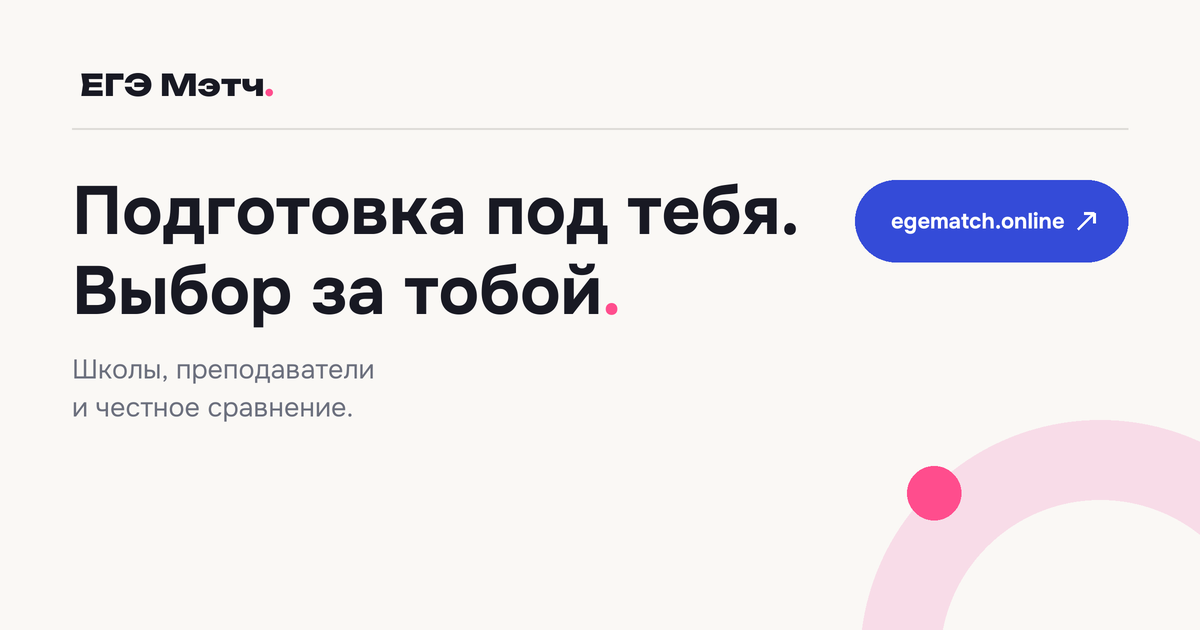
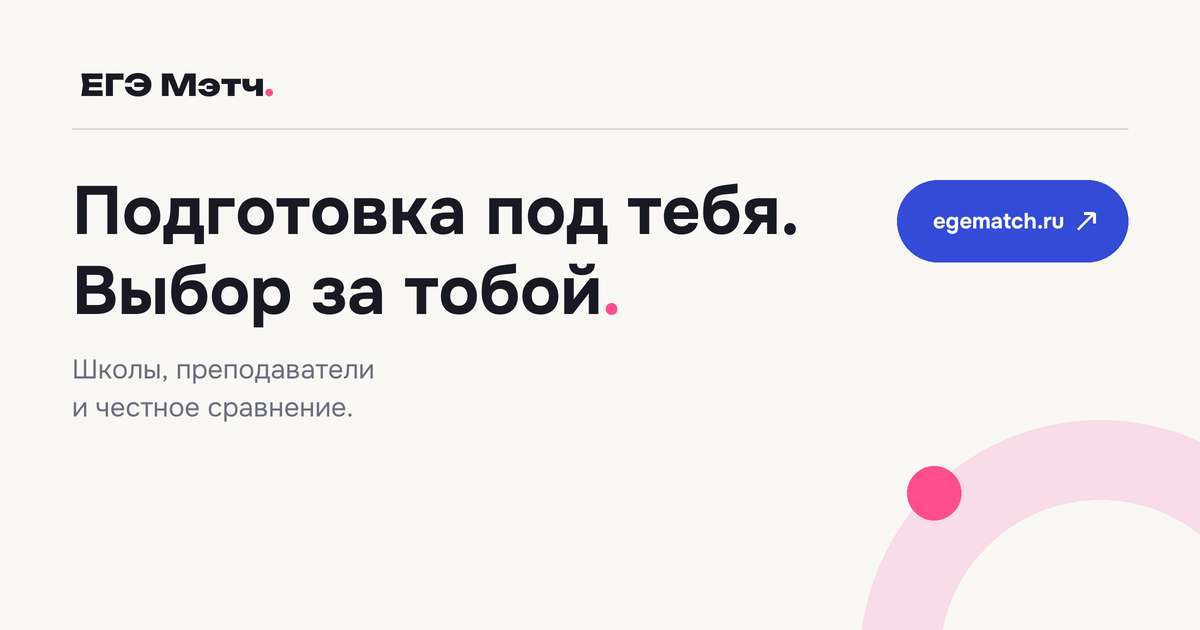
Make egematch.ru the primary domain
Canonicals, og tags, JSON-LD, robots and sitemap now point to
https://egematch.ru; the share image shows the new address; the consent
decline message mentions the new site.

Changed region(s): [[0.7092, 0.2714, 0.8942, 0.4222]]

diff --git a/web/index.html b/web/index.html
@@ -4,11 +4,11 @@
   <meta charset="utf-8"><meta name="viewport" content="width=device-width, initial-scale=1">
   <meta name="theme-color" content="#FAF8F5">
   <meta name="description" content="Выбирай подготовку к ЕГЭ: сравнивай онлайн-школы и преподавателей по предметам, цене и формату обучения.">
-  <link rel="canonical" href="https://egematch.online/">
+  <link rel="canonical" href="https://egematch.ru/">
   <meta property="og:type" content="website"><meta property="og:site_name" content="ЕГЭ Мэтч">
   <meta property="og:title" content="ЕГЭ Мэтч — найди свою подготовку"><meta property="og:description" content="Сравнивай онлайн-школы и преподавателей по оценкам, цене и формату обучения.">
-  <meta property="og:url" content="https://egematch.online/"><meta property="og:image" content="https://egematch.online/assets/og-cover.png?v=2"><meta property="og:image:width" content="1200"><meta property="og:image:height" content="630">
-  <meta name="twitter:card" content="summary_large_image"><meta name="twitter:title" content="ЕГЭ Мэтч — найди свою подготовку"><meta name="twitter:description" content="Сравнивай онлайн-школы и преподавателей по оценкам, цене и формату обучения."><meta name="twitter:image" content="https://egematch.online/assets/og-cover.png?v=2">
+  <meta property="og:url" content="https://egematch.ru/"><meta property="og:image" content="https://egematch.ru/assets/og-cover.png?v=3"><meta property="og:image:width" content="1200"><meta property="og:image:height" content="630">
+  <meta name="twitter:card" content="summary_large_image"><meta name="twitter:title" content="ЕГЭ Мэтч — найди свою подготовку"><meta name="twitter:description" content="Сравнивай онлайн-школы и преподавателей по оценкам, цене и формату обучения."><meta name="twitter:image" content="https://egematch.ru/assets/og-cover.png?v=3">
   <title>ЕГЭ Мэтч — найди свою подготовку</title>
   <link rel="icon" href="assets/egeshka-logo-icon.svg" type="image/svg+xml">
   <link rel="manifest" href="site.webmanifest">
@@ -17,8 +17,8 @@
   <link rel="stylesheet" href="refinements.css?v=35">
   <link rel="stylesheet" href="typography.css?v=31">
   <link rel="stylesheet" href="composition.css?v=76">
-  <script type="application/ld+json">{"@context":"https://schema.org","@type":"Organization","name":"ЕГЭ Мэтч","url":"https://egematch.online/","logo":"https://egematch.online/assets/egeshka-logo-icon.svg","sameAs":["https://t.me/EgeMatch_blog"]}</script>
-  <script type="application/ld+json">{"@context":"https://schema.org","@type":"WebSite","name":"ЕГЭ Мэтч","url":"https://egematch.online/","inLanguage":"ru","description":"Сравнение онлайн-школ и преподавателей для подготовки к ЕГЭ."}</script>
+  <script type="application/ld+json">{"@context":"https://schema.org","@type":"Organization","name":"ЕГЭ Мэтч","url":"https://egematch.ru/","logo":"https://egematch.ru/assets/egeshka-logo-icon.svg","sameAs":["https://t.me/EgeMatch_blog"]}</script>
+  <script type="application/ld+json">{"@context":"https://schema.org","@type":"WebSite","name":"ЕГЭ Мэтч","url":"https://egematch.ru/","inLanguage":"ru","description":"Сравнение онлайн-школ и преподавателей для подготовки к ЕГЭ."}</script>
 </head>
 <body>
 <header class="header wrap"><a class="logo" href="#" aria-label="ЕГЭ Мэтч, главная">ЕГЭ Мэтч<span>.</span></a><nav aria-label="Главная навигация"><a href="/ratings">Рейтинг школ</a><a href="#compare">Сравнение</a><a href="#reviews">Отзывы</a></nav><a class="header-action" href="#compare">Сравнить <span>↗</span></a></header>

diff --git a/web/methodology.html b/web/methodology.html
@@ -4,16 +4,16 @@
   <meta charset="utf-8"><meta name="viewport" content="width=device-width, initial-scale=1">
   <meta name="theme-color" content="#FAF8F5">
   <meta name="description" content="Как ЕГЭ Мэтч считает оценки онлайн-школ и преподавателей: критерии, веса, проверка отзывов и предварительные баллы.">
-  <link rel="canonical" href="https://egematch.online/methodology">
+  <link rel="canonical" href="https://egematch.ru/methodology">
   <meta property="og:type" content="article"><meta property="og:site_name" content="ЕГЭ Мэтч">
   <meta property="og:title" content="Методология рейтинга — ЕГЭ Мэтч"><meta property="og:description" content="Критерии, веса и правила расчёта оценок школ и преподавателей.">
-  <meta property="og:url" content="https://egematch.online/methodology"><meta property="og:image" content="https://egematch.online/assets/og-cover.png?v=2"><meta property="og:image:width" content="1200"><meta property="og:image:height" content="630">
-  <meta name="twitter:card" content="summary_large_image"><meta name="twitter:title" content="Методология рейтинга — ЕГЭ Мэтч"><meta name="twitter:description" content="Критерии, веса и правила расчёта оценок школ и преподавателей."><meta name="twitter:image" content="https://egematch.online/assets/og-cover.png?v=2">
+  <meta property="og:url" content="https://egematch.ru/methodology"><meta property="og:image" content="https://egematch.ru/assets/og-cover.png?v=3"><meta property="og:image:width" content="1200"><meta property="og:image:height" content="630">
+  <meta name="twitter:card" content="summary_large_image"><meta name="twitter:title" content="Методология рейтинга — ЕГЭ Мэтч"><meta name="twitter:description" content="Критерии, веса и правила расчёта оценок школ и преподавателей."><meta name="twitter:image" content="https://egematch.ru/assets/og-cover.png?v=3">
   <title>Методология рейтинга — ЕГЭ Мэтч</title>
   <link rel="icon" href="assets/egeshka-logo-icon.svg" type="image/svg+xml"><link rel="manifest" href="site.webmanifest">
   <link rel="preload" href="/assets/fonts/onest-cyrillic-wght-normal.woff2" as="font" type="font/woff2" crossorigin><link rel="preload" href="/assets/fonts/unbounded-cyrillic-wght-normal.woff2" as="font" type="font/woff2" crossorigin><link rel="preload" href="/assets/fonts/onest-symbols-wght-normal.woff2" as="font" type="font/woff2" crossorigin>
   <link rel="stylesheet" href="styles.css?v=33"><link rel="stylesheet" href="refinements.css?v=35"><link rel="stylesheet" href="typography.css?v=31"><link rel="stylesheet" href="composition.css?v=76">
-  <script type="application/ld+json">{"@context":"https://schema.org","@type":"BreadcrumbList","itemListElement":[{"@type":"ListItem","position":1,"name":"ЕГЭ Мэтч","item":"https://egematch.online/"},{"@type":"ListItem","position":2,"name":"Методология рейтинга","item":"https://egematch.online/methodology"}]}</script>
+  <script type="application/ld+json">{"@context":"https://schema.org","@type":"BreadcrumbList","itemListElement":[{"@type":"ListItem","position":1,"name":"ЕГЭ Мэтч","item":"https://egematch.ru/"},{"@type":"ListItem","position":2,"name":"Методология рейтинга","item":"https://egematch.ru/methodology"}]}</script>
 </head>
 <body class="methodology-page">
 <header class="header wrap"><a class="logo" href="/" aria-label="ЕГЭ Мэтч, главная">ЕГЭ Мэтч<span>.</span></a><nav aria-label="Главная навигация"><a href="/ratings">Рейтинг школ</a><a href="/#compare">Сравнение</a><a href="/#reviews">Отзывы</a></nav><a class="header-action" href="/ratings">К рейтингу <span>↗</span></a></header>

diff --git a/web/ratings.html b/web/ratings.html
@@ -4,11 +4,11 @@
   <meta charset="utf-8"><meta name="viewport" content="width=device-width, initial-scale=1">
   <meta name="theme-color" content="#FAF8F5">
   <meta name="description" content="Рейтинг онлайн-школ для подготовки к ЕГЭ: оценки, сильные стороны, цены и условия обучения.">
-  <link rel="canonical" href="https://egematch.online/ratings">
+  <link rel="canonical" href="https://egematch.ru/ratings">
   <meta property="og:type" content="website"><meta property="og:site_name" content="ЕГЭ Мэтч">
   <meta property="og:title" content="Рейтинг онлайн-школ — ЕГЭ Мэтч"><meta property="og:description" content="Оценки, сильные стороны, цены и условия подготовки к ЕГЭ в одном каталоге.">
-  <meta property="og:url" content="https://egematch.online/ratings"><meta property="og:image" content="https://egematch.online/assets/og-cover.png?v=2"><meta property="og:image:width" content="1200"><meta property="og:image:height" content="630">
-  <meta name="twitter:card" content="summary_large_image"><meta name="twitter:title" content="Рейтинг онлайн-школ — ЕГЭ Мэтч"><meta name="twitter:description" content="Оценки, сильные стороны, цены и условия подготовки к ЕГЭ в одном каталоге."><meta name="twitter:image" content="https://egematch.online/assets/og-cover.png?v=2">
+  <meta property="og:url" content="https://egematch.ru/ratings"><meta property="og:image" content="https://egematch.ru/assets/og-cover.png?v=3"><meta property="og:image:width" content="1200"><meta property="og:image:height" content="630">
+  <meta name="twitter:card" content="summary_large_image"><meta name="twitter:title" content="Рейтинг онлайн-школ — ЕГЭ Мэтч"><meta name="twitter:description" content="Оценки, сильные стороны, цены и условия подготовки к ЕГЭ в одном каталоге."><meta name="twitter:image" content="https://egematch.ru/assets/og-cover.png?v=3">
   <title>Рейтинг онлайн-школ — ЕГЭ Мэтч</title>
   <link rel="icon" href="assets/egeshka-logo-icon.svg" type="image/svg+xml">
   <link rel="manifest" href="site.webmanifest">
@@ -17,7 +17,7 @@
   <link rel="stylesheet" href="refinements.css?v=35">
   <link rel="stylesheet" href="typography.css?v=31">
   <link rel="stylesheet" href="composition.css?v=76">
-  <script type="application/ld+json">{"@context":"https://schema.org","@type":"BreadcrumbList","itemListElement":[{"@type":"ListItem","position":1,"name":"ЕГЭ Мэтч","item":"https://egematch.online/"},{"@type":"ListItem","position":2,"name":"Рейтинг онлайн-школ","item":"https://egematch.online/ratings"}]}</script>
+  <script type="application/ld+json">{"@context":"https://schema.org","@type":"BreadcrumbList","itemListElement":[{"@type":"ListItem","position":1,"name":"ЕГЭ Мэтч","item":"https://egematch.ru/"},{"@type":"ListItem","position":2,"name":"Рейтинг онлайн-школ","item":"https://egematch.ru/ratings"}]}</script>
 </head>
 <body class="ratings-page">
 <header class="header wrap"><a class="logo" href="/" aria-label="ЕГЭ Мэтч, главная">ЕГЭ Мэтч<span>.</span></a><nav aria-label="Главная навигация"><a class="active" href="/ratings">Рейтинг школ</a><a href="/#compare">Сравнение</a><a href="/#reviews">Отзывы</a></nav><a class="header-action" href="/">На главную <span>↗</span></a></header>

diff --git a/web/schools/studycats.html b/web/schools/studycats.html
@@ -5,10 +5,10 @@
   <base href="/">
   <meta name="theme-color" content="#FAF8F5">
   <meta name="description" content="Онлайн-школа подготовки к ЕГЭ и ОГЭ, объединившая проекты «История и котики», «Русский и котики», «Английский и котики» и другие предметные направления на одной платформе. Оценка 8,7 из 10, цены, 10 предметов, преподаватели и как оставить отзыв.">
-  <link rel="canonical" href="https://egematch.online/schools/studycats">
+  <link rel="canonical" href="https://egematch.ru/schools/studycats">
   <meta property="og:type" content="website"><meta property="og:site_name" content="ЕГЭ Мэтч">
   <meta property="og:title" content="StudyCats: оценка, цены и преподаватели для ЕГЭ — ЕГЭ Мэтч"><meta property="og:description" content="Онлайн-школа подготовки к ЕГЭ и ОГЭ, объединившая проекты «История и котики», «Русский и котики», «Английский и котики» и другие предметные направления на одной платформе. Оценка 8,7 из 10, цены, 10 предметов, преподаватели и как оставить отзыв.">
-  <meta property="og:url" content="https://egematch.online/schools/studycats"><meta property="og:image" content="https://egematch.online/assets/og-cover.png?v=2">
+  <meta property="og:url" content="https://egematch.ru/schools/studycats"><meta property="og:image" content="https://egematch.ru/assets/og-cover.png?v=3">
   <meta name="twitter:card" content="summary_large_image">
   <title>StudyCats: оценка, цены и преподаватели для ЕГЭ — ЕГЭ Мэтч</title>
   <link rel="icon" href="/assets/egeshka-logo-icon.svg" type="image/svg+xml">
@@ -18,7 +18,7 @@
   <link rel="stylesheet" href="/refinements.css?v=35">
   <link rel="stylesheet" href="/typography.css?v=31">
   <link rel="stylesheet" href="/composition.css?v=76">
-  <script type="application/ld+json">{"@context": "https://schema.org", "@type": "BreadcrumbList", "itemListElement": [{"@type": "ListItem", "position": 1, "name": "Главная", "item": "https://egematch.online/"}, {"@type": "ListItem", "position": 2, "name": "Рейтинг школ", "item": "https://egematch.online/ratings"}, {"@type": "ListItem", "position": 3, "name": "StudyCats", "item": "https://egematch.online/schools/studycats"}]}</script>
+  <script type="application/ld+json">{"@context": "https://schema.org", "@type": "BreadcrumbList", "itemListElement": [{"@type": "ListItem", "position": 1, "name": "Главная", "item": "https://egematch.ru/"}, {"@type": "ListItem", "position": 2, "name": "Рейтинг школ", "item": "https://egematch.ru/ratings"}, {"@type": "ListItem", "position": 3, "name": "StudyCats", "item": "https://egematch.ru/schools/studycats"}]}</script>
 </head>
 <body class="school-page-body">
 <header class="header wrap"><a class="logo" href="/" aria-label="ЕГЭ Мэтч, главная">ЕГЭ Мэтч<span>.</span></a><nav aria-label="Главная навигация"><a class="active" href="/ratings">Рейтинг школ</a><a href="/#compare">Сравнение</a><a href="/#reviews">Отзывы</a></nav><a class="header-action" href="/">На главную <span>↗</span></a></header>

diff --git a/web/schools/insperia.html b/web/schools/insperia.html
@@ -5,10 +5,10 @@
   <base href="/">
   <meta name="theme-color" content="#FAF8F5">
   <meta name="description" content="Онлайн-школа подготовки к ЕГЭ и ОГЭ по русскому языку, профильной математике, обществознанию и информатике: живые вебинары, записи и учебная платформа с практикой. Оценка 8,6 из 10, цены, 4 предметов, преподаватели и как оставить отзыв.">
-  <link rel="canonical" href="https://egematch.online/schools/insperia">
+  <link rel="canonical" href="https://egematch.ru/schools/insperia">
   <meta property="og:type" content="website"><meta property="og:site_name" content="ЕГЭ Мэтч">
   <meta property="og:title" content="Инсперия: оценка, цены и преподаватели для ЕГЭ — ЕГЭ Мэтч"><meta property="og:description" content="Онлайн-школа подготовки к ЕГЭ и ОГЭ по русскому языку, профильной математике, обществознанию и информатике: живые вебинары, записи и учебная платформа с практикой. Оценка 8,6 из 10, цены, 4 предметов, преподаватели и как оставить отзыв.">
-  <meta property="og:url" content="https://egematch.online/schools/insperia"><meta property="og:image" content="https://egematch.online/assets/og-cover.png?v=2">
+  <meta property="og:url" content="https://egematch.ru/schools/insperia"><meta property="og:image" content="https://egematch.ru/assets/og-cover.png?v=3">
   <meta name="twitter:card" content="summary_large_image">
   <title>Инсперия: оценка, цены и преподаватели для ЕГЭ — ЕГЭ Мэтч</title>
   <link rel="icon" href="/assets/egeshka-logo-icon.svg" type="image/svg+xml">
@@ -18,7 +18,7 @@
   <link rel="stylesheet" href="/refinements.css?v=35">
   <link rel="stylesheet" href="/typography.css?v=31">
   <link rel="stylesheet" href="/composition.css?v=76">
-  <script type="application/ld+json">{"@context": "https://schema.org", "@type": "BreadcrumbList", "itemListElement": [{"@type": "ListItem", "position": 1, "name": "Главная", "item": "https://egematch.online/"}, {"@type": "ListItem", "position": 2, "name": "Рейтинг школ", "item": "https://egematch.online/ratings"}, {"@type": "ListItem", "position": 3, "name": "Инсперия", "item": "https://egematch.online/schools/insperia"}]}</script>
+  <script type="application/ld+json">{"@context": "https://schema.org", "@type": "BreadcrumbList", "itemListElement": [{"@type": "ListItem", "position": 1, "name": "Главная", "item": "https://egematch.ru/"}, {"@type": "ListItem", "position": 2, "name": "Рейтинг школ", "item": "https://egematch.ru/ratings"}, {"@type": "ListItem", "position": 3, "name": "Инсперия", "item": "https://egematch.ru/schools/insperia"}]}</script>
 </head>
 <body class="school-page-body">
 <header class="header wrap"><a class="logo" href="/" aria-label="ЕГЭ Мэтч, главная">ЕГЭ Мэтч<span>.</span></a><nav aria-label="Главная навигация"><a class="active" href="/ratings">Рейтинг школ</a><a href="/#compare">Сравнение</a><a href="/#reviews">Отзывы</a></nav><a class="header-action" href="/">На главную <span>↗</span></a></header>

diff --git a/web/schools/egenalegke.html b/web/schools/egenalegke.html
@@ -5,10 +5,10 @@
   <base href="/">
   <meta name="theme-color" content="#FAF8F5">
   <meta name="description" content="Камерная онлайн-школа подготовки к ЕГЭ по обществознанию и истории с видеоуроками, вебинарами, регулярной практикой и несколькими уровнями проверки. Оценка 8,8 из 10, цены, 2 предметов, преподаватели и как оставить отзыв.">
-  <link rel="canonical" href="https://egematch.online/schools/egenalegke">
+  <link rel="canonical" href="https://egematch.ru/schools/egenalegke">
   <meta property="og:type" content="website"><meta property="og:site_name" content="ЕГЭ Мэтч">
   <meta property="og:title" content="ЕГЭ Налегке: оценка, цены и преподаватели для ЕГЭ — ЕГЭ Мэтч"><meta property="og:description" content="Камерная онлайн-школа подготовки к ЕГЭ по обществознанию и истории с видеоуроками, вебинарами, регулярной практикой и несколькими уровнями проверки. Оценка 8,8 из 10, цены, 2 предметов, преподаватели и как оставить отзыв.">
-  <meta property="og:url" content="https://egematch.online/schools/egenalegke"><meta property="og:image" content="https://egematch.online/assets/og-cover.png?v=2">
+  <meta property="og:url" content="https://egematch.ru/schools/egenalegke"><meta property="og:image" content="https://egematch.ru/assets/og-cover.png?v=3">
   <meta name="twitter:card" content="summary_large_image">
   <title>ЕГЭ Налегке: оценка, цены и преподаватели для ЕГЭ — ЕГЭ Мэтч</title>
   <link rel="icon" href="/assets/egeshka-logo-icon.svg" type="image/svg+xml">
@@ -18,7 +18,7 @@
   <link rel="stylesheet" href="/refinements.css?v=35">
   <link rel="stylesheet" href="/typography.css?v=31">
   <link rel="stylesheet" href="/composition.css?v=76">
-  <script type="application/ld+json">{"@context": "https://schema.org", "@type": "BreadcrumbList", "itemListElement": [{"@type": "ListItem", "position": 1, "name": "Главная", "item": "https://egematch.online/"}, {"@type": "ListItem", "position": 2, "name": "Рейтинг школ", "item": "https://egematch.online/ratings"}, {"@type": "ListItem", "position": 3, "name": "ЕГЭ Налегке", "item": "https://egematch.online/schools/egenalegke"}]}</script>
+  <script type="application/ld+json">{"@context": "https://schema.org", "@type": "BreadcrumbList", "itemListElement": [{"@type": "ListItem", "position": 1, "name": "Главная", "item": "https://egematch.ru/"}, {"@type": "ListItem", "position": 2, "name": "Рейтинг школ", "item": "https://egematch.ru/ratings"}, {"@type": "ListItem", "position": 3, "name": "ЕГЭ Налегке", "item": "https://egematch.ru/schools/egenalegke"}]}</script>
 </head>
 <body class="school-page-body">
 <header class="header wrap"><a class="logo" href="/" aria-label="ЕГЭ Мэтч, главная">ЕГЭ Мэтч<span>.</span></a><nav aria-label="Главная навигация"><a class="active" href="/ratings">Рейтинг школ</a><a href="/#compare">Сравнение</a><a href="/#reviews">Отзывы</a></nav><a class="header-action" href="/">На главную <span>↗</span></a></header>

diff --git a/web/schools/morozilka.html b/web/schools/morozilka.html
@@ -5,10 +5,10 @@
   <base href="/">
   <meta name="theme-color" content="#FAF8F5">
   <meta name="description" content="Онлайн-школа подготовки к ЕГЭ по профильной математике, русскому языку, физике и информатике с живыми вебинарами, записями и тремя уровнями сопровождения. Оценка 8,6 из 10, цены, 4 предметов, преподаватели и как оставить отзыв.">
-  <link rel="canonical" href="https://egematch.online/schools/morozilka">
+  <link rel="canonical" href="https://egematch.ru/schools/morozilka">
   <meta property="og:type" content="website"><meta property="og:site_name" content="ЕГЭ Мэтч">
   <meta property="og:title" content="Морозилка: оценка, цены и преподаватели для ЕГЭ — ЕГЭ Мэтч"><meta property="og:description" content="Онлайн-школа подготовки к ЕГЭ по профильной математике, русскому языку, физике и информатике с живыми вебинарами, записями и тремя уровнями сопровождения. Оценка 8,6 из 10, цены, 4 предметов, преподаватели и как оставить отзыв.">
-  <meta property="og:url" content="https://egematch.online/schools/morozilka"><meta property="og:image" content="https://egematch.online/assets/og-cover.png?v=2">
+  <meta property="og:url" content="https://egematch.ru/schools/morozilka"><meta property="og:image" content="https://egematch.ru/assets/og-cover.png?v=3">
   <meta name="twitter:card" content="summary_large_image">
   <title>Морозилка: оценка, цены и преподаватели для ЕГЭ — ЕГЭ Мэтч</title>
   <link rel="icon" href="/assets/egeshka-logo-icon.svg" type="image/svg+xml">
@@ -18,7 +18,7 @@
   <link rel="stylesheet" href="/refinements.css?v=35">
   <link rel="stylesheet" href="/typography.css?v=31">
   <link rel="stylesheet" href="/composition.css?v=76">
-  <script type="application/ld+json">{"@context": "https://schema.org", "@type": "BreadcrumbList", "itemListElement": [{"@type": "ListItem", "position": 1, "name": "Главная", "item": "https://egematch.online/"}, {"@type": "ListItem", "position": 2, "name": "Рейтинг школ", "item": "https://egematch.online/ratings"}, {"@type": "ListItem", "position": 3, "name": "Морозилка", "item": "https://egematch.online/schools/morozilka"}]}</script>
+  <script type="application/ld+json">{"@context": "https://schema.org", "@type": "BreadcrumbList", "itemListElement": [{"@type": "ListItem", "position": 1, "name": "Главная", "item": "https://egematch.ru/"}, {"@type": "ListItem", "position": 2, "name": "Рейтинг школ", "item": "https://egematch.ru/ratings"}, {"@type": "ListItem", "position": 3, "name": "Морозилка", "item": "https://egematch.ru/schools/morozilka"}]}</script>
 </head>
 <body class="school-page-body">
 <header class="header wrap"><a class="logo" href="/" aria-label="ЕГЭ Мэтч, главная">ЕГЭ Мэтч<span>.</span></a><nav aria-label="Главная навигация"><a class="active" href="/ratings">Рейтинг школ</a><a href="/#compare">Сравнение</a><a href="/#reviews">Отзывы</a></nav><a class="header-action" href="/">На главную <span>↗</span></a></header>

diff --git a/web/schools/100ballov.html b/web/schools/100ballov.html
@@ -5,10 +5,10 @@
   <base href="/">
   <meta name="theme-color" content="#FAF8F5">
   <meta name="description" content="Крупная онлайн-школа с сильными преподавательскими брендами, годовыми курсами по блокам и несколькими уровнями сопровождения. Оценка 8,5 из 10, цены, 12 предметов, преподаватели и как оставить отзыв.">
-  <link rel="canonical" href="https://egematch.online/schools/100ballov">
+  <link rel="canonical" href="https://egematch.ru/schools/100ballov">
   <meta property="og:type" content="website"><meta property="og:site_name" content="ЕГЭ Мэтч">
   <meta property="og:title" content="100балльный репетитор: оценка, цены и преподаватели для ЕГЭ — ЕГЭ Мэтч"><meta property="og:description" content="Крупная онлайн-школа с сильными преподавательскими брендами, годовыми курсами по блокам и несколькими уровнями сопровождения. Оценка 8,5 из 10, цены, 12 предметов, преподаватели и как оставить отзыв.">
-  <meta property="og:url" content="https://egematch.online/schools/100ballov"><meta property="og:image" content="https://egematch.online/assets/og-cover.png?v=2">
+  <meta property="og:url" content="https://egematch.ru/schools/100ballov"><meta property="og:image" content="https://egematch.ru/assets/og-cover.png?v=3">
   <meta name="twitter:card" content="summary_large_image">
   <title>100балльный репетитор: оценка, цены и преподаватели для ЕГЭ — ЕГЭ Мэтч</title>
   <link rel="icon" href="/assets/egeshka-logo-icon.svg" type="image/svg+xml">
@@ -18,7 +18,7 @@
   <link rel="stylesheet" href="/refinements.css?v=35">
   <link rel="stylesheet" href="/typography.css?v=31">
   <link rel="stylesheet" href="/composition.css?v=76">
-  <script type="application/ld+json">{"@context": "https://schema.org", "@type": "BreadcrumbList", "itemListElement": [{"@type": "ListItem", "position": 1, "name": "Главная", "item": "https://egematch.online/"}, {"@type": "ListItem", "position": 2, "name": "Рейтинг школ", "item": "https://egematch.online/ratings"}, {"@type": "ListItem", "position": 3, "name": "100балльный репетитор", "item": "https://egematch.online/schools/100ballov"}]}</script>
+  <script type="application/ld+json">{"@context": "https://schema.org", "@type": "BreadcrumbList", "itemListElement": [{"@type": "ListItem", "position": 1, "name": "Главная", "item": "https://egematch.ru/"}, {"@type": "ListItem", "position": 2, "name": "Рейтинг школ", "item": "https://egematch.ru/ratings"}, {"@type": "ListItem", "position": 3, "name": "100балльный репетитор", "item": "https://egematch.ru/schools/100ballov"}]}</script>
 </head>
 <body class="school-page-body">
 <header class="header wrap"><a class="logo" href="/" aria-label="ЕГЭ Мэтч, главная">ЕГЭ Мэтч<span>.</span></a><nav aria-label="Главная навигация"><a class="active" href="/ratings">Рейтинг школ</a><a href="/#compare">Сравнение</a><a href="/#reviews">Отзывы</a></nav><a class="header-action" href="/">На главную <span>↗</span></a></header>

diff --git a/web/schools/smitap.html b/web/schools/smitap.html
@@ -5,10 +5,10 @@
   <base href="/">
   <meta name="theme-color" content="#FAF8F5">
   <meta name="description" content="Онлайн-школа подготовки к ЕГЭ и ОГЭ с небольшими учебными группами, собственной платформой, личными наставниками, зачётами и игровой системой мотивации. Оценка 8,6 из 10, цены, 11 предметов, преподаватели и как оставить отзыв.">
-  <link rel="canonical" href="https://egematch.online/schools/smitap">
+  <link rel="canonical" href="https://egematch.ru/schools/smitap">
   <meta property="og:type" content="website"><meta property="og:site_name" content="ЕГЭ Мэтч">
   <meta property="og:title" content="СМИТАП: оценка, цены и преподаватели для ЕГЭ — ЕГЭ Мэтч"><meta property="og:description" content="Онлайн-школа подготовки к ЕГЭ и ОГЭ с небольшими учебными группами, собственной платформой, личными наставниками, зачётами и игровой системой мотивации. Оценка 8,6 из 10, цены, 11 предметов, преподаватели и как оставить отзыв.">
-  <meta property="og:url" content="https://egematch.online/schools/smitap"><meta property="og:image" content="https://egematch.online/assets/og-cover.png?v=2">
+  <meta property="og:url" content="https://egematch.ru/schools/smitap"><meta property="og:image" content="https://egematch.ru/assets/og-cover.png?v=3">
   <meta name="twitter:card" content="summary_large_image">
   <title>СМИТАП: оценка, цены и преподаватели для ЕГЭ — ЕГЭ Мэтч</title>
   <link rel="icon" href="/assets/egeshka-logo-icon.svg" type="image/svg+xml">
@@ -18,7 +18,7 @@
   <link rel="stylesheet" href="/refinements.css?v=35">
   <link rel="stylesheet" href="/typography.css?v=31">
   <link rel="stylesheet" href="/composition.css?v=76">
-  <script type="application/ld+json">{"@context": "https://schema.org", "@type": "BreadcrumbList", "itemListElement": [{"@type": "ListItem", "position": 1, "name": "Главная", "item": "https://egematch.online/"}, {"@type": "ListItem", "position": 2, "name": "Рейтинг школ", "item": "https://egematch.online/ratings"}, {"@type": "ListItem", "position": 3, "name": "СМИТАП", "item": "https://egematch.online/schools/smitap"}]}</script>
+  <script type="application/ld+json">{"@context": "https://schema.org", "@type": "BreadcrumbList", "itemListElement": [{"@type": "ListItem", "position": 1, "name": "Главная", "item": "https://egematch.ru/"}, {"@type": "ListItem", "position": 2, "name": "Рейтинг школ", "item": "https://egematch.ru/ratings"}, {"@type": "ListItem", "position": 3, "name": "СМИТАП", "item": "https://egematch.ru/schools/smitap"}]}</script>
 </head>
 <body class="school-page-body">
 <header class="header wrap"><a class="logo" href="/" aria-label="ЕГЭ Мэтч, главная">ЕГЭ Мэтч<span>.</span></a><nav aria-label="Главная навигация"><a class="active" href="/ratings">Рейтинг школ</a><a href="/#compare">Сравнение</a><a href="/#reviews">Отзывы</a></nav><a class="header-action" href="/">На главную <span>↗</span></a></header>

diff --git a/web/schools/shkolkovo.html b/web/schools/shkolkovo.html
@@ -5,10 +5,10 @@
   <base href="/">
   <meta name="theme-color" content="#FAF8F5">
   <meta name="description" content="Образовательная платформа подготовки к ЕГЭ, ОГЭ, олимпиадам и ДВИ с вебинарами, записями, задачниками и несколькими уровнями проверки работ. Оценка 8,6 из 10, цены, 10 предметов, преподаватели и как оставить отзыв.">
-  <link rel="canonical" href="https://egematch.online/schools/shkolkovo">
+  <link rel="canonical" href="https://egematch.ru/schools/shkolkovo">
   <meta property="og:type" content="website"><meta property="og:site_name" content="ЕГЭ Мэтч">
   <meta property="og:title" content="Школково: оценка, цены и преподаватели для ЕГЭ — ЕГЭ Мэтч"><meta property="og:description" content="Образовательная платформа подготовки к ЕГЭ, ОГЭ, олимпиадам и ДВИ с вебинарами, записями, задачниками и несколькими уровнями проверки работ. Оценка 8,6 из 10, цены, 10 предметов, преподаватели и как оставить отзыв.">
-  <meta property="og:url" content="https://egematch.online/schools/shkolkovo"><meta property="og:image" content="https://egematch.online/assets/og-cover.png?v=2">
+  <meta property="og:url" content="https://egematch.ru/schools/shkolkovo"><meta property="og:image" content="https://egematch.ru/assets/og-cover.png?v=3">
   <meta name="twitter:card" content="summary_large_image">
   <title>Школково: оценка, цены и преподаватели для ЕГЭ — ЕГЭ Мэтч</title>
   <link rel="icon" href="/assets/egeshka-logo-icon.svg" type="image/svg+xml">
@@ -18,7 +18,7 @@
   <link rel="stylesheet" href="/refinements.css?v=35">
   <link rel="stylesheet" href="/typography.css?v=31">
   <link rel="stylesheet" href="/composition.css?v=76">
-  <script type="application/ld+json">{"@context": "https://schema.org", "@type": "BreadcrumbList", "itemListElement": [{"@type": "ListItem", "position": 1, "name": "Главная", "item": "https://egematch.online/"}, {"@type": "ListItem", "position": 2, "name": "Рейтинг школ", "item": "https://egematch.online/ratings"}, {"@type": "ListItem", "position": 3, "name": "Школково", "item": "https://egematch.online/schools/shkolkovo"}]}</script>
+  <script type="application/ld+json">{"@context": "https://schema.org", "@type": "BreadcrumbList", "itemListElement": [{"@type": "ListItem", "position": 1, "name": "Главная", "item": "https://egematch.ru/"}, {"@type": "ListItem", "position": 2, "name": "Рейтинг школ", "item": "https://egematch.ru/ratings"}, {"@type": "ListItem", "position": 3, "name": "Школково", "item": "https://egematch.ru/schools/shkolkovo"}]}</script>
 </head>
 <body class="school-page-body">
 <header class="header wrap"><a class="logo" href="/" aria-label="ЕГЭ Мэтч, главная">ЕГЭ Мэтч<span>.</span></a><nav aria-label="Главная навигация"><a class="active" href="/ratings">Рейтинг школ</a><a href="/#compare">Сравнение</a><a href="/#reviews">Отзывы</a></nav><a class="header-action" href="/">На главную <span>↗</span></a></header>

diff --git a/web/schools/neofamily.html b/web/schools/neofamily.html
@@ -5,10 +5,10 @@
   <base href="/">
   <meta name="theme-color" content="#FAF8F5">
   <meta name="description" content="Онлайн-школа подготовки к ЕГЭ по биологии, химии и русскому языку с живыми вебинарами, короткими видеоуроками и собственной учебной платформой. Оценка 8,9 из 10, цены, 3 предметов, преподаватели и как оставить отзыв.">
-  <link rel="canonical" href="https://egematch.online/schools/neofamily">
+  <link rel="canonical" href="https://egematch.ru/schools/neofamily">
   <meta property="og:type" content="website"><meta property="og:site_name" content="ЕГЭ Мэтч">
   <meta property="og:title" content="NeoFamily: оценка, цены и преподаватели для ЕГЭ — ЕГЭ Мэтч"><meta property="og:description" content="Онлайн-школа подготовки к ЕГЭ по биологии, химии и русскому языку с живыми вебинарами, короткими видеоуроками и собственной учебной платформой. Оценка 8,9 из 10, цены, 3 предметов, преподаватели и как оставить отзыв.">
-  <meta property="og:url" content="https://egematch.online/schools/neofamily"><meta property="og:image" content="https://egematch.online/assets/og-cover.png?v=2">
+  <meta property="og:url" content="https://egematch.ru/schools/neofamily"><meta property="og:image" content="https://egematch.ru/assets/og-cover.png?v=3">
   <meta name="twitter:card" content="summary_large_image">
   <title>NeoFamily: оценка, цены и преподаватели для ЕГЭ — ЕГЭ Мэтч</title>
   <link rel="icon" href="/assets/egeshka-logo-icon.svg" type="image/svg+xml">
@@ -18,7 +18,7 @@
   <link rel="stylesheet" href="/refinements.css?v=35">
   <link rel="stylesheet" href="/typography.css?v=31">
   <link rel="stylesheet" href="/composition.css?v=76">
-  <script type="application/ld+json">{"@context": "https://schema.org", "@type": "BreadcrumbList", "itemListElement": [{"@type": "ListItem", "position": 1, "name": "Главная", "item": "https://egematch.online/"}, {"@type": "ListItem", "position": 2, "name": "Рейтинг школ", "item": "https://egematch.online/ratings"}, {"@type": "ListItem", "position": 3, "name": "NeoFamily", "item": "https://egematch.online/schools/neofamily"}]}</script>
+  <script type="application/ld+json">{"@context": "https://schema.org", "@type": "BreadcrumbList", "itemListElement": [{"@type": "ListItem", "position": 1, "name": "Главная", "item": "https://egematch.ru/"}, {"@type": "ListItem", "position": 2, "name": "Рейтинг школ", "item": "https://egematch.ru/ratings"}, {"@type": "ListItem", "position": 3, "name": "NeoFamily", "item": "https://egematch.ru/schools/neofamily"}]}</script>
 </head>
 <body class="school-page-body">
 <header class="header wrap"><a class="logo" href="/" aria-label="ЕГЭ Мэтч, главная">ЕГЭ Мэтч<span>.</span></a><nav aria-label="Главная навигация"><a class="active" href="/ratings">Рейтинг школ</a><a href="/#compare">Сравнение</a><a href="/#reviews">Отзывы</a></nav><a class="header-action" href="/">На главную <span>↗</span></a></header>

diff --git a/web/schools/egeland.html b/web/schools/egeland.html
@@ -5,10 +5,10 @@
   <base href="/">
   <meta name="theme-color" content="#FAF8F5">
   <meta name="description" content="Крупная онлайн-школа подготовки к ЕГЭ и ОГЭ с преподавательскими каналами, собственной платформой, наставниками, тренажёрами и ИИ-помощником. Оценка 8,7 из 10, цены, 12 предметов, преподаватели и как оставить отзыв.">
-  <link rel="canonical" href="https://egematch.online/schools/egeland">
+  <link rel="canonical" href="https://egematch.ru/schools/egeland">
   <meta property="og:type" content="website"><meta property="og:site_name" content="ЕГЭ Мэтч">
   <meta property="og:title" content="ЕГЭLand: оценка, цены и преподаватели для ЕГЭ — ЕГЭ Мэтч"><meta property="og:description" content="Крупная онлайн-школа подготовки к ЕГЭ и ОГЭ с преподавательскими каналами, собственной платформой, наставниками, тренажёрами и ИИ-помощником. Оценка 8,7 из 10, цены, 12 предметов, преподаватели и как оставить отзыв.">
-  <meta property="og:url" content="https://egematch.online/schools/egeland"><meta property="og:image" content="https://egematch.online/assets/og-cover.png?v=2">
+  <meta property="og:url" content="https://egematch.ru/schools/egeland"><meta property="og:image" content="https://egematch.ru/assets/og-cover.png?v=3">
   <meta name="twitter:card" content="summary_large_image">
   <title>ЕГЭLand: оценка, цены и преподаватели для ЕГЭ — ЕГЭ Мэтч</title>
   <link rel="icon" href="/assets/egeshka-logo-icon.svg" type="image/svg+xml">
@@ -18,7 +18,7 @@
   <link rel="stylesheet" href="/refinements.css?v=35">
   <link rel="stylesheet" href="/typography.css?v=31">
   <link rel="stylesheet" href="/composition.css?v=76">
-  <script type="application/ld+json">{"@context": "https://schema.org", "@type": "BreadcrumbList", "itemListElement": [{"@type": "ListItem", "position": 1, "name": "Главная", "item": "https://egematch.online/"}, {"@type": "ListItem", "position": 2, "name": "Рейтинг школ", "item": "https://egematch.online/ratings"}, {"@type": "ListItem", "position": 3, "name": "ЕГЭLand", "item": "https://egematch.online/schools/egeland"}]}</script>
+  <script type="application/ld+json">{"@context": "https://schema.org", "@type": "BreadcrumbList", "itemListElement": [{"@type": "ListItem", "position": 1, "name": "Главная", "item": "https://egematch.ru/"}, {"@type": "ListItem", "position": 2, "name": "Рейтинг школ", "item": "https://egematch.ru/ratings"}, {"@type": "ListItem", "position": 3, "name": "ЕГЭLand", "item": "https://egematch.ru/schools/egeland"}]}</script>
 </head>
 <body class="school-page-body">
 <header class="header wrap"><a class="logo" href="/" aria-label="ЕГЭ Мэтч, главная">ЕГЭ Мэтч<span>.</span></a><nav aria-label="Главная навигация"><a class="active" href="/ratings">Рейтинг школ</a><a href="/#compare">Сравнение</a><a href="/#reviews">Отзывы</a></nav><a class="header-action" href="/">На главную <span>↗</span></a></header>
